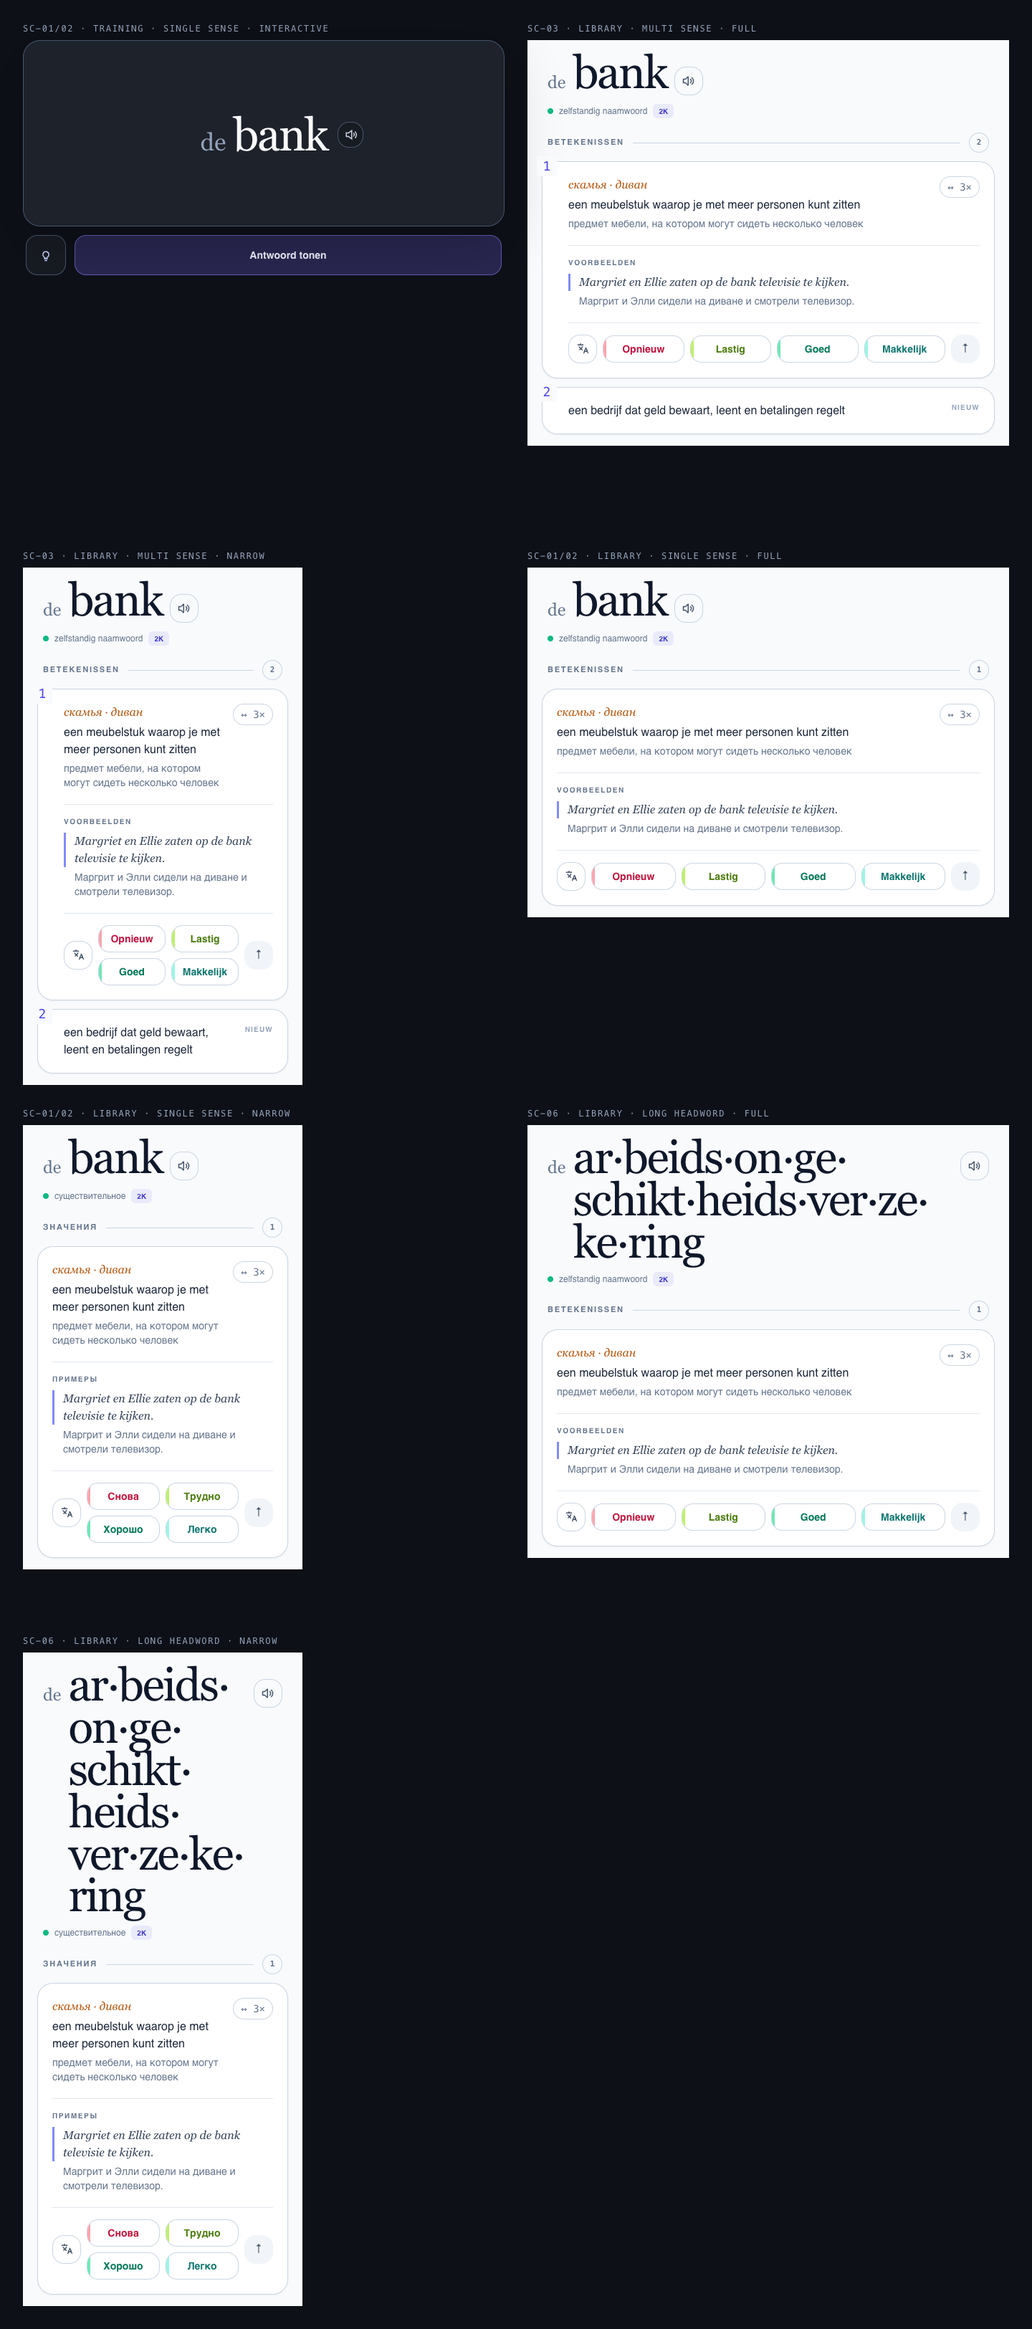
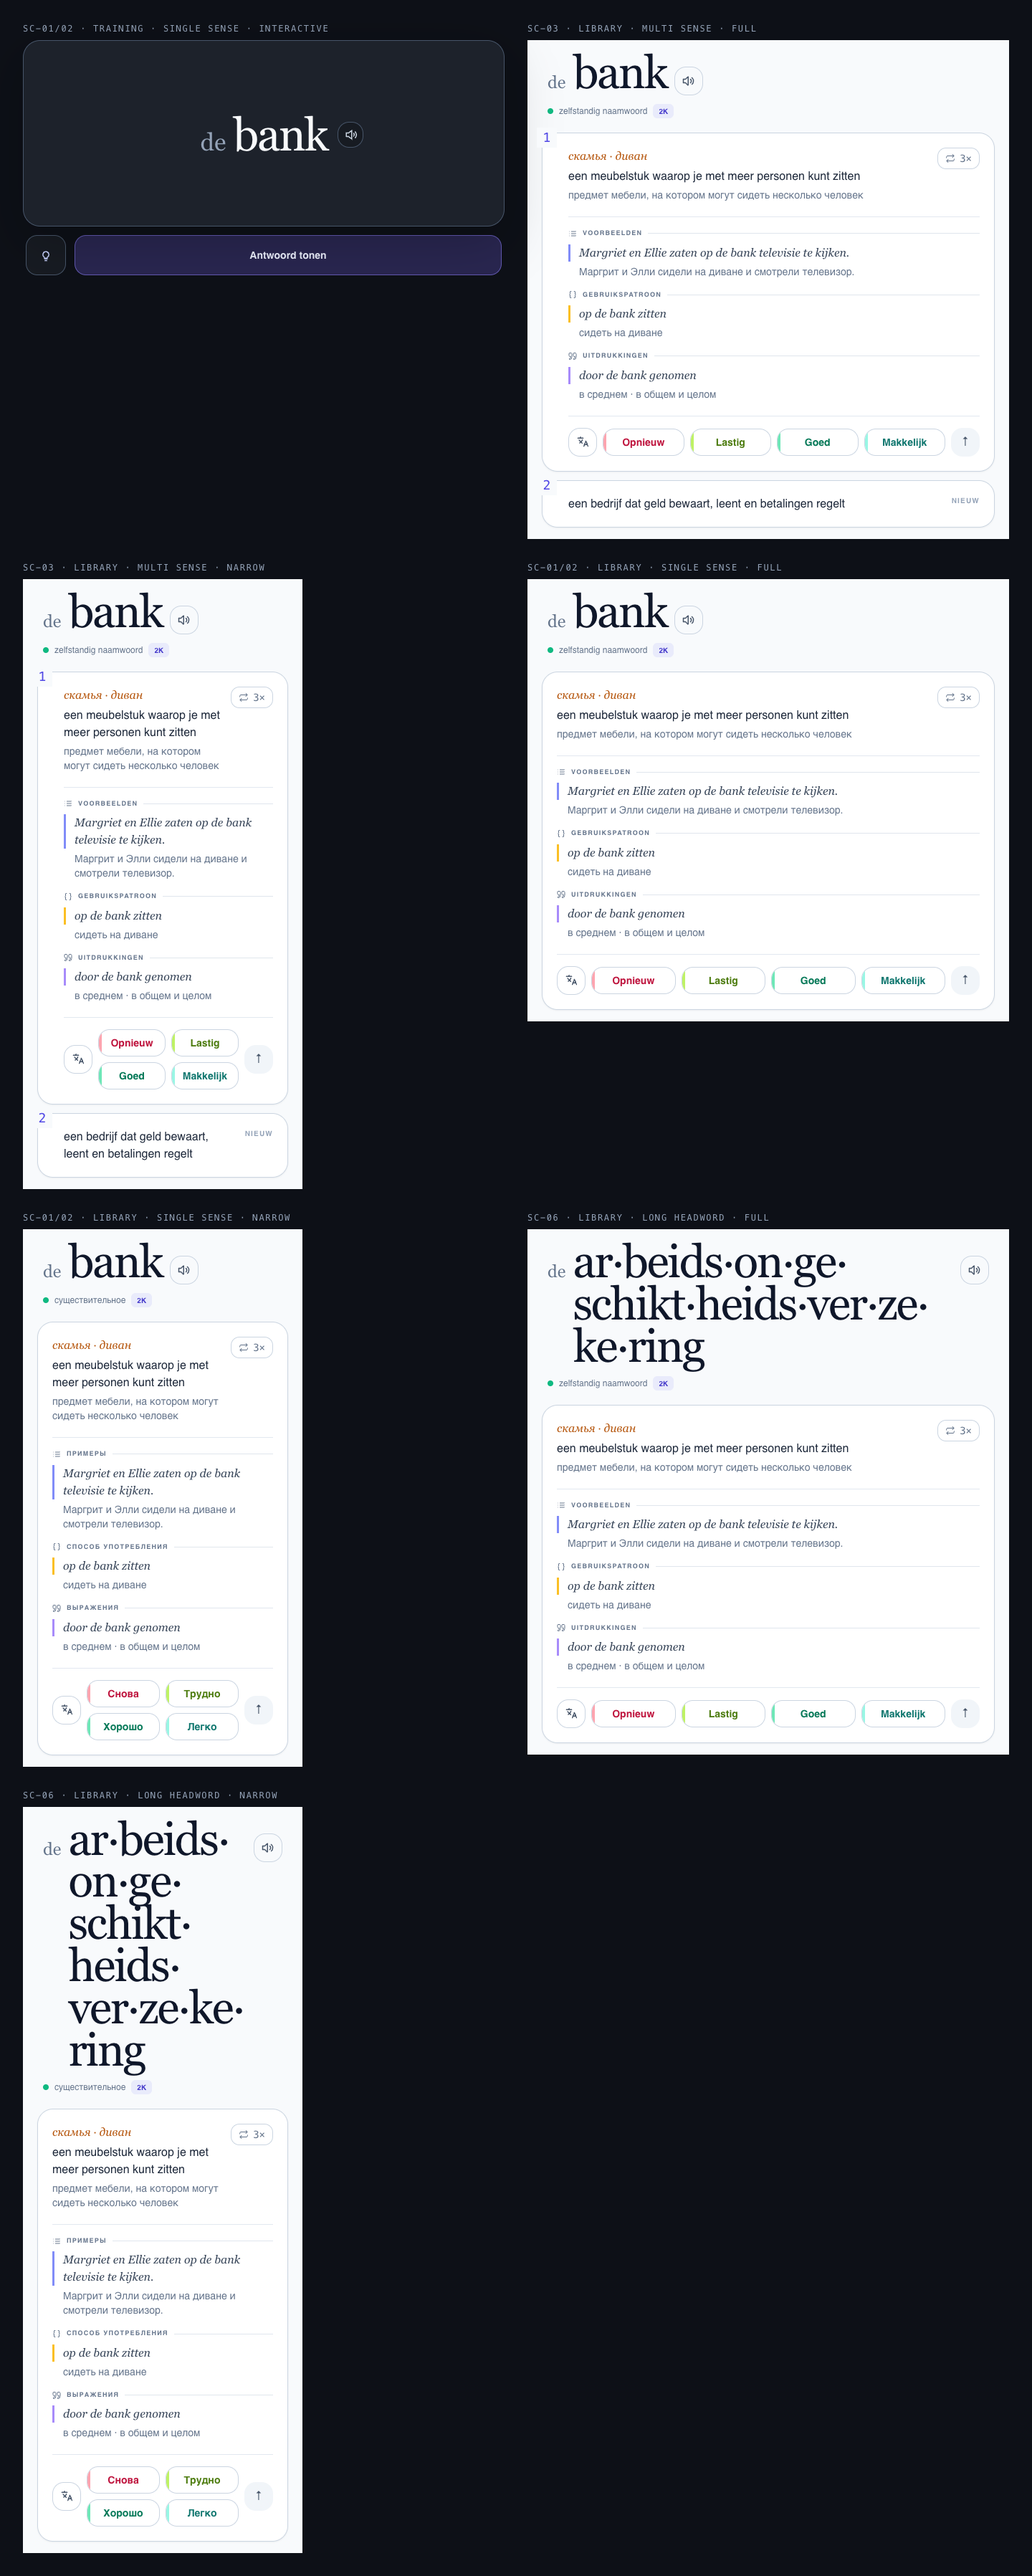
Synchronize 2000NL SenseCard evidence

diff --git a/apps/ui/components/training/library-v2/LibrarySenseCardGroup.tsx b/apps/ui/components/training/library-v2/LibrarySenseCardGroup.tsx
@@ -122,14 +122,6 @@ export function LibrarySenseCardGroup({
         </div>
       </header>
 
-      <div className="mb-3 flex items-center gap-3 px-1 text-[11px] font-semibold uppercase tracking-[0.16em] text-slate-500 dark:text-slate-400 sm:px-2">
-        <span>{model.meaningCountLabel}</span>
-        <span className="h-px flex-1 bg-slate-300 dark:bg-slate-700" />
-        <span className="flex h-7 min-w-7 items-center justify-center rounded-full border border-slate-300 px-2 font-mono tracking-normal dark:border-slate-700">
-          {model.senseCount}
-        </span>
-      </div>
-
       <div className="space-y-3">
         {model.meanings.map((meaning) => {
           const identity = librarySenseCardIdentity(
@@ -267,8 +259,9 @@ function MeaningCard({
               {t("senseCard.known.marked")}
             </span>
           ) : meaning.repeatCount > 0 ? (
-            <span className="shrink-0 rounded-xl border border-slate-300 px-2.5 py-1 font-mono text-sm text-slate-500 dark:border-slate-700 dark:text-slate-400">
-              ↔ {meaning.repeatCount}×
+            <span className="inline-flex shrink-0 items-center gap-1.5 rounded-lg border border-slate-300 px-2.5 py-1 font-mono text-sm text-slate-500 dark:border-slate-700 dark:text-slate-400">
+              <RepeatIcon className="h-3.5 w-3.5" />
+              {meaning.repeatCount}×
             </span>
           ) : (
             <span className="shrink-0 text-[10px] font-semibold uppercase tracking-[0.12em] text-slate-400">
@@ -302,9 +295,15 @@ function MeaningCard({
                       data-content-kind={item.kind}
                     >
                       {showLabel && presentation.labelKey ? (
-                        <h3 className="mb-2 text-[10px] font-semibold uppercase tracking-[0.16em] text-slate-500 dark:text-slate-400">
-                          {t(presentation.labelKey)}
-                        </h3>
+                        <ContentSectionHeader
+                          label={t(presentation.labelKey)}
+                          sectionGroup={presentation.sectionGroup}
+                          count={meaning.details.filter(
+                            (candidate) =>
+                              contentPresentation[candidate.kind].sectionGroup ===
+                              presentation.sectionGroup,
+                          ).length}
+                        />
                       ) : null}
                       <p className={presentation.textClassName}>{item.text}</p>
                       {state.translationVisible && item.translation ? (
@@ -516,6 +515,40 @@ function NestedContent({
   );
 }
 
+function ContentSectionHeader({
+  label,
+  sectionGroup,
+  count,
+}: {
+  label: string;
+  sectionGroup: string;
+  count: number;
+}) {
+  const Icon =
+    sectionGroup === "usage"
+      ? BracesIcon
+      : sectionGroup === "examples"
+        ? ListIcon
+        : sectionGroup === "idioms"
+          ? QuoteIcon
+          : null;
+  return (
+    <h3
+      data-section-icon={Icon ? sectionGroup : undefined}
+      className="mb-2 flex items-center gap-2 text-[9px] font-semibold uppercase tracking-[0.14em] text-slate-500 dark:text-slate-400"
+    >
+      {Icon ? <Icon className="h-3 w-3 shrink-0" /> : null}
+      <span>{label}</span>
+      <span className="h-px flex-1 bg-slate-300/60 dark:bg-slate-700/60" />
+      {count > 1 ? (
+        <span className="font-mono text-[10px] font-medium tracking-normal">
+          {count}
+        </span>
+      ) : null}
+    </h3>
+  );
+}
+
 function initialViewState(
   model: LibrarySenseCardGroupModel,
 ): LibrarySenseCardViewState {
@@ -579,5 +612,65 @@ function AudioIcon() {
       <path d="M11 5 6.5 9H3v6h3.5l4.5 4V5Z" />
       <path d="M15 9a4 4 0 0 1 0 6M17.5 6.5a7.5 7.5 0 0 1 0 11" />
     </svg>
+  );
+}
+
+type SmallIconProps = { className: string };
+
+function SmallIcon({
+  className,
+  children,
+}: SmallIconProps & { children: React.ReactNode }) {
+  return (
+    <svg
+      viewBox="0 0 24 24"
+      aria-hidden="true"
+      className={className}
+      fill="none"
+      stroke="currentColor"
+      strokeWidth="1.8"
+      strokeLinecap="round"
+      strokeLinejoin="round"
+    >
+      {children}
+    </svg>
+  );
+}
+
+function RepeatIcon({ className }: SmallIconProps) {
+  return (
+    <SmallIcon className={className}>
+      <path d="m17 2 4 4-4 4" />
+      <path d="M3 11V9a3 3 0 0 1 3-3h15" />
+      <path d="m7 22-4-4 4-4" />
+      <path d="M21 13v2a3 3 0 0 1-3 3H3" />
+    </SmallIcon>
+  );
+}
+
+function BracesIcon({ className }: SmallIconProps) {
+  return (
+    <SmallIcon className={className}>
+      <path d="M8 3H7a2 2 0 0 0-2 2v5a2 2 0 0 1-2 2 2 2 0 0 1 2 2v5a2 2 0 0 0 2 2h1" />
+      <path d="M16 21h1a2 2 0 0 0 2-2v-5a2 2 0 0 1 2-2 2 2 0 0 1-2-2V5a2 2 0 0 0-2-2h-1" />
+    </SmallIcon>
+  );
+}
+
+function ListIcon({ className }: SmallIconProps) {
+  return (
+    <SmallIcon className={className}>
+      <path d="M8 6h13M8 12h13M8 18h13" />
+      <path d="M3 6h.01M3 12h.01M3 18h.01" />
+    </SmallIcon>
+  );
+}
+
+function QuoteIcon({ className }: SmallIconProps) {
+  return (
+    <SmallIcon className={className}>
+      <path d="M3 21c3 0 7-1 7-8V5c0-1.25-.75-2-2-2H4c-1.25 0-2 .75-2 1.97V11c0 1.25.75 2 2 2h3c0 3-1 5-4 6v2Z" />
+      <path d="M15 21c3 0 7-1 7-8V5c0-1.25-.75-2-2-2h-4c-1.25 0-2 .75-2 1.97V11c0 1.25.75 2 2 2h3c0 3-1 5-4 6v2Z" />
+    </SmallIcon>
   );
 }

diff --git a/apps/ui/tests/LibrarySenseCardV2Session.test.tsx b/apps/ui/tests/LibrarySenseCardV2Session.test.tsx
@@ -63,7 +63,7 @@ describe("LibrarySenseCardV2Session", () => {
       />,
     );
 
-    await screen.findByText("Meanings");
+    await screen.findByTestId("library-sense-card-group");
     fireEvent.click(
       screen.getByTestId("library-sense-card-entry-bank-finance"),
     );
@@ -99,7 +99,9 @@ describe("LibrarySenseCardV2Session", () => {
     );
 
     expect(screen.getByText("Legacy detail")).toBeInTheDocument();
-    expect(await screen.findByText("Meanings")).toBeInTheDocument();
+    expect(
+      await screen.findByTestId("library-sense-card-group"),
+    ).toBeInTheDocument();
     expect(screen.queryByText("Legacy detail")).not.toBeInTheDocument();
   });
 
@@ -115,7 +117,7 @@ describe("LibrarySenseCardV2Session", () => {
       />,
     );
 
-    await screen.findByText("Meanings");
+    await screen.findByTestId("library-sense-card-group");
     expect(fetchGroup).toHaveBeenCalledWith(
       expect.objectContaining({ translationTargetLanguageCode: null }),
     );
@@ -153,7 +155,7 @@ describe("LibrarySenseCardV2Session", () => {
       />,
     );
 
-    await screen.findByText("Meanings");
+    await screen.findByTestId("library-sense-card-group");
     fireEvent.click(
       screen.getByTestId("library-sense-card-entry-bank-finance"),
     );
@@ -185,7 +187,7 @@ describe("LibrarySenseCardV2Session", () => {
         fallback={<p>Legacy detail</p>}
       />,
     );
-    await screen.findByText("Meanings");
+    await screen.findByTestId("library-sense-card-group");
     fireEvent.click(
       screen.getByTestId("library-sense-card-entry-bank-finance"),
     );
@@ -235,7 +237,7 @@ describe("LibrarySenseCardV2Session", () => {
         fallback={<p>Legacy detail</p>}
       />,
     );
-    await screen.findByText("Meanings");
+    await screen.findByTestId("library-sense-card-group");
     fireEvent.click(
       screen.getByTestId("library-sense-card-entry-bank-finance"),
     );
@@ -295,7 +297,7 @@ describe("LibrarySenseCardV2Session", () => {
         fallback={<p>Legacy detail</p>}
       />,
     );
-    await screen.findByText("Meanings");
+    await screen.findByTestId("library-sense-card-group");
     fireEvent.click(
       screen.getByTestId("library-sense-card-entry-bank-finance"),
     );
@@ -334,7 +336,7 @@ describe("LibrarySenseCardV2Session", () => {
       />,
     );
 
-    await screen.findByText("Meanings");
+    await screen.findByTestId("library-sense-card-group");
     fireEvent.click(
       screen.getByTestId("library-sense-card-entry-bank-finance"),
     );

diff --git a/apps/ui/tests/LibrarySenseCardGroup.test.tsx b/apps/ui/tests/LibrarySenseCardGroup.test.tsx
@@ -33,7 +33,7 @@ describe("LibrarySenseCardGroup", () => {
     expect(headword.querySelectorAll("wbr")).toHaveLength(9);
     expect(headword.querySelectorAll(".whitespace-nowrap")).toHaveLength(10);
     expect(screen.getByText("существительное")).toBeInTheDocument();
-    expect(screen.getByText("Значения")).toBeInTheDocument();
+    expect(screen.queryByText("Значения")).not.toBeInTheDocument();
     expect(
       screen.getByRole("button", { name: "Показать перевод значения 1" }),
     ).toBeInTheDocument();
@@ -64,7 +64,7 @@ describe("LibrarySenseCardGroup", () => {
       />,
     );
 
-    expect(screen.getByText("Meanings")).toBeInTheDocument();
+    expect(screen.queryByText("Meanings")).not.toBeInTheDocument();
     expect(screen.getByText(/3×/)).toBeInTheDocument();
     expect(
       screen.queryByText("Bij welke bank hebt u een rekening?"),
@@ -98,7 +98,7 @@ describe("LibrarySenseCardGroup", () => {
     expect(screen.queryByText("bench · sofa")).not.toBeInTheDocument();
   });
 
-  test("renders the authoritative group count", () => {
+  test("does not render the aggregate group count as card chrome", () => {
     const model = buildLibrarySenseCardGroupModel(multiSenseBankGroup, "en");
     render(
       <LibrarySenseCardGroup
@@ -108,7 +108,7 @@ describe("LibrarySenseCardGroup", () => {
       />,
     );
 
-    expect(screen.getByText("7")).toBeInTheDocument();
+    expect(screen.queryByText("7")).not.toBeInTheDocument();
   });
 
   test("keeps the quiet known action beside review controls", () => {
@@ -216,6 +216,15 @@ describe("LibrarySenseCardGroup", () => {
     ).toBeInTheDocument();
     expect(
       container.querySelector('[data-content-kind="idiom"]'),
+    ).toBeInTheDocument();
+    expect(
+      container.querySelector('[data-section-icon="usage"]'),
+    ).toBeInTheDocument();
+    expect(
+      container.querySelector('[data-section-icon="examples"]'),
+    ).toBeInTheDocument();
+    expect(
+      container.querySelector('[data-section-icon="idioms"]'),
     ).toBeInTheDocument();
   });
 

diff --git a/apps/ui/lib/platform/fixtures/senseCardV1GateFixture.ts b/apps/ui/lib/platform/fixtures/senseCardV1GateFixture.ts
@@ -5,7 +5,7 @@ import type {
 
 function makeContentNode(
   entryId: string,
-  kind: "definition" | "example",
+  kind: "definition" | "example" | "usage-pattern" | "idiom",
   order: number,
   text: string,
   translation: string,
@@ -137,6 +137,23 @@ export const gateFurnitureEntry = makeEntry({
   phase: "reviewing",
   repeatCount: 3,
 });
+
+gateFurnitureEntry.contentNodes.push(
+  makeContentNode(
+    gateFurnitureEntry.entryId,
+    "usage-pattern",
+    2,
+    "op de bank zitten",
+    "сидеть на диване",
+  ),
+  makeContentNode(
+    gateFurnitureEntry.entryId,
+    "idiom",
+    3,
+    "door de bank genomen",
+    "в среднем · в общем и целом",
+  ),
+);
 
 export const gateFinanceEntry = makeEntry({
   entryId: "entry-bank-finance",

diff --git a/apps/ui/components/training/library-v2/librarySenseCardModel.ts b/apps/ui/components/training/library-v2/librarySenseCardModel.ts
@@ -67,7 +67,6 @@ export type LibrarySenseCardGroupModel = {
   audioCapability: PlatformAudioCapabilityV2 | null;
   partOfSpeech: string | null;
   coreVocabularyLabel: string | null;
-  meaningCountLabel: string;
   senseCount: number;
   meanings: LibrarySenseCardModel[];
 };
@@ -130,7 +129,6 @@ export function buildLibrarySenseCardGroupModel(
         : t(partOfSpeech.messageKey)
       : null,
     coreVocabularyLabel: coreVocabulary ? t(coreVocabulary.messageKey) : null,
-    meaningCountLabel: t("senseCard.sections.meanings"),
     senseCount: group.senseCount,
     meanings: senseEntries.map((entry) =>
       buildMeaning(

diff --git a/docs/architecture/evidence/sensecard-v1-cross-product/README.md b/docs/architecture/evidence/sensecard-v1-cross-product/README.md
@@ -1,6 +1,6 @@
 # SenseCard v1 cross-product gate
 
-Status: review ready; product-owner approval pending  
+Status: review ready; AudioFilms approved, synchronized 2000NL owner review pending
 Gate owner: `vbalashi/2000nl#79`  
 2000NL baseline: `870bff926c3709be49550b69dcc25b795ab8f997`  
 AudioFilms baseline: `efe7aae771c0bb5f2b70cd8d30f732a25fb30ff5`
@@ -19,10 +19,17 @@ different product contexts. It does not require identical outer shells:
 The group is presentation context. The learnable and mutable unit is always a
 single SenseCard target: `entryId + cardTypeId + stateRevision`.
 
-Visual ordinal rule: a one-sense group has no meaning ordinal and its standalone
-header does not repeat a redundant `1 meaning` label. In a multi-sense group the
-ordinal is plain text on a small background cutout that interrupts the
-meaning-card top border; it has no independent outline or chip border.
+Visual ordinal rule: a one-sense group has no meaning ordinal. Neither a
+one-sense nor a multi-sense composition renders an aggregate `Meaning(s)`
+header/count row. In a multi-sense group the ordinal is plain text on a small
+background cutout that interrupts the meaning-card top border; it has no
+independent outline or chip border. Repeat exposure is sense-local and appears
+inside that meaning card, never as a headword-group count.
+
+Information markers follow the same vocabulary in both products: usage patterns
+use braces, examples use a list marker, and the quotation mark is reserved for
+idioms/expressions. Audio playback is adjacent to the headword. These are
+presentation rules only; they do not change entry or content-node identity.
 
 ## Shared scenario manifest
 
@@ -69,6 +76,15 @@ Executed on 2026-08-05 against the exact baselines above:
 - 2000NL focused SenseCard suite: 8 files, 39 tests passed.
 - AudioFilms dictionary suite: 14 files, 58 tests passed.
 - AudioFilms extension unit smoke: passed.
+
+Re-executed after the 2026-08-06 presentation synchronization:
+
+- 2000NL complete UI suite: 58 files passed, 2 skipped; 423 tests passed,
+  74 skipped.
+- 2000NL focused SenseCard suite: 5 files, 25 tests passed; typecheck and
+  lint passed.
+- AudioFilms extension unit smoke and extension JavaScript syntax checks:
+  passed.
 
 These checks cover projection, independent multi-sense interaction,
 translation visibility/failure, localization, Known/Undo, report targeting and
@@ -125,9 +141,11 @@ product CSS change was made.
 - [x] Capture matched Full and Narrow screenshots for `SC-01`, `SC-03`,
       `SC-06` and translation off/on.
 - [x] Record keyboard/focus/accessible-name checks for the interactive fixture.
-- [x] Complete independent visual QA on the exact 12-screenshot set (latest
-      PASS on 2026-08-06; no High, Medium or Low findings).
-- [ ] Record product-owner approval.
+- [x] Re-capture the synchronized presentation after removal of the aggregate
+      Meaning(s) row and addition of sense-local rich-content markers.
+- [x] Complete independent visual QA on the exact 12-screenshot set (final
+      re-review PASS on 2026-08-06; no High, Medium or Low findings).
+- [ ] Record final product-owner approval of the synchronized cross-product set.
 - [x] Publish rollout, rollback and follow-up decisions.
 
 ## Rollout boundary (draft)

diff --git a/docs/exec-plans/active/issue-79-cross-product-sensecard-gate.md b/docs/exec-plans/active/issue-79-cross-product-sensecard-gate.md
@@ -67,5 +67,6 @@ recorded. A failed gate is a valid outcome if its blockers are explicit.
 - [x] Full/Narrow, single/multi, translation and long-headword evidence captured.
 - [x] Independent visual QA passes with no findings.
 - [x] Rollout, rollback and follow-up ownership documented.
-- [ ] Product-owner approval recorded.
+- [x] AudioFilms presentation approved by the product owner.
+- [ ] Product-owner approval of synchronized 2000NL evidence recorded.
 - [ ] Both review-ready branches integrated and reverified on their main branches.
